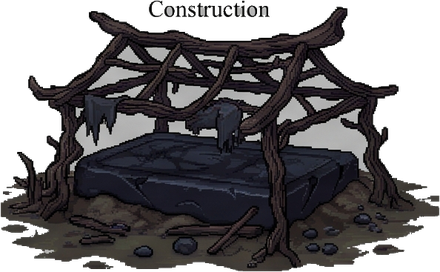
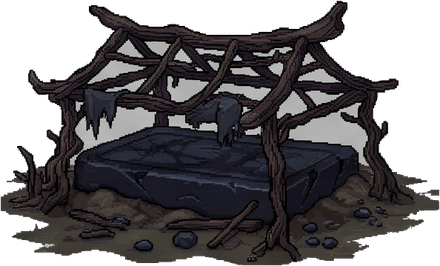
arte: quitar los rótulos de la hoja pegados a los edificios

diff --git a/scripts/recortar-arte.py b/scripts/recortar-arte.py
@@ -10,6 +10,7 @@ quedan normalizados y con una máscara (rojo = kimono, azul = hakama) para que
 el celular pueda recolorearlos en vivo. La faja no se recolorea.
 
     python3 scripts/recortar-arte.py --solo-mascaras
+    python3 scripts/recortar-arte.py --solo-edificios
 
 rehace solo las máscaras a partir de los sprites ya normalizados de
 public/assets/, para ajustar zonas sin volver a recortar todo.
@@ -686,6 +687,42 @@ EDIFICIOS_ERA1 = [
 ]
 
 
+
+def _quitar_rotulos(pieza: Image.Image, minimo: int = 500) -> Image.Image:
+    """Borra los rótulos de la hoja ("Foundation", "ALTAR"…) que quedan
+    pegados al recorte: son manchas chicas y sueltas, separadas del edificio.
+    Se conservan solo las partes conectadas con al menos `minimo` píxeles."""
+    datos = np.array(pieza.convert("RGBA"))
+    visible = datos[:, :, 3] > 0
+    alto, ancho = visible.shape
+    etiquetas = np.zeros((alto, ancho), dtype=np.int32)
+    tamanos: list[int] = [0]
+    actual = 0
+    for y0 in range(alto):
+        for x0 in range(ancho):
+            if not visible[y0, x0] or etiquetas[y0, x0]:
+                continue
+            actual += 1
+            cola = deque([(y0, x0)])
+            etiquetas[y0, x0] = actual
+            cuenta = 0
+            while cola:
+                y, x = cola.popleft()
+                cuenta += 1
+                for dy, dx in ((1, 0), (-1, 0), (0, 1), (0, -1), (1, 1), (1, -1), (-1, 1), (-1, -1)):
+                    ny, nx = y + dy, x + dx
+                    if 0 <= ny < alto and 0 <= nx < ancho and visible[ny, nx] and not etiquetas[ny, nx]:
+                        etiquetas[ny, nx] = actual
+                        cola.append((ny, nx))
+            tamanos.append(cuenta)
+    # Umbral relativo: las letras grandes de los títulos también son chicas
+    # comparadas con el edificio.
+    umbral = max(minimo, int(max(tamanos) * 0.04))
+    chicas = np.array([t < umbral for t in tamanos])
+    datos[chicas[etiquetas] & visible] = (0, 0, 0, 0)
+    return _recortar_contenido(Image.fromarray(datos, "RGBA"), margen=1)
+
+
 def extraer_edificios() -> None:
     print("Edificios de la Era 1")
     hojas_abiertas: dict[str, Image.Image] = {}
@@ -710,6 +747,7 @@ def extraer_edificios() -> None:
         )
         fondo = _limpiar_halo(rgb, fondo, pasadas=3, saturacion_max=28, brillo_min=125, brillo_max=244)
         pieza = _recortar_contenido(_rgba(recorte, fondo), margen=1)
+        pieza = _quitar_rotulos(pieza)
 
         # Ajuste de escala a tamaño óptimo en pantalla (máx 440px de ancho o 340px de alto)
         escala = min(1.0, 440 / max(1, pieza.width), 340 / max(1, pieza.height))
@@ -799,6 +837,9 @@ def extraer_animaciones() -> None:
 def main() -> None:
     if "--solo-mascaras" in sys.argv:
         solo_mascaras()
+        return
+    if "--solo-edificios" in sys.argv:
+        extraer_edificios()
         return
 
     print(f"Origen: {ARTE}")
